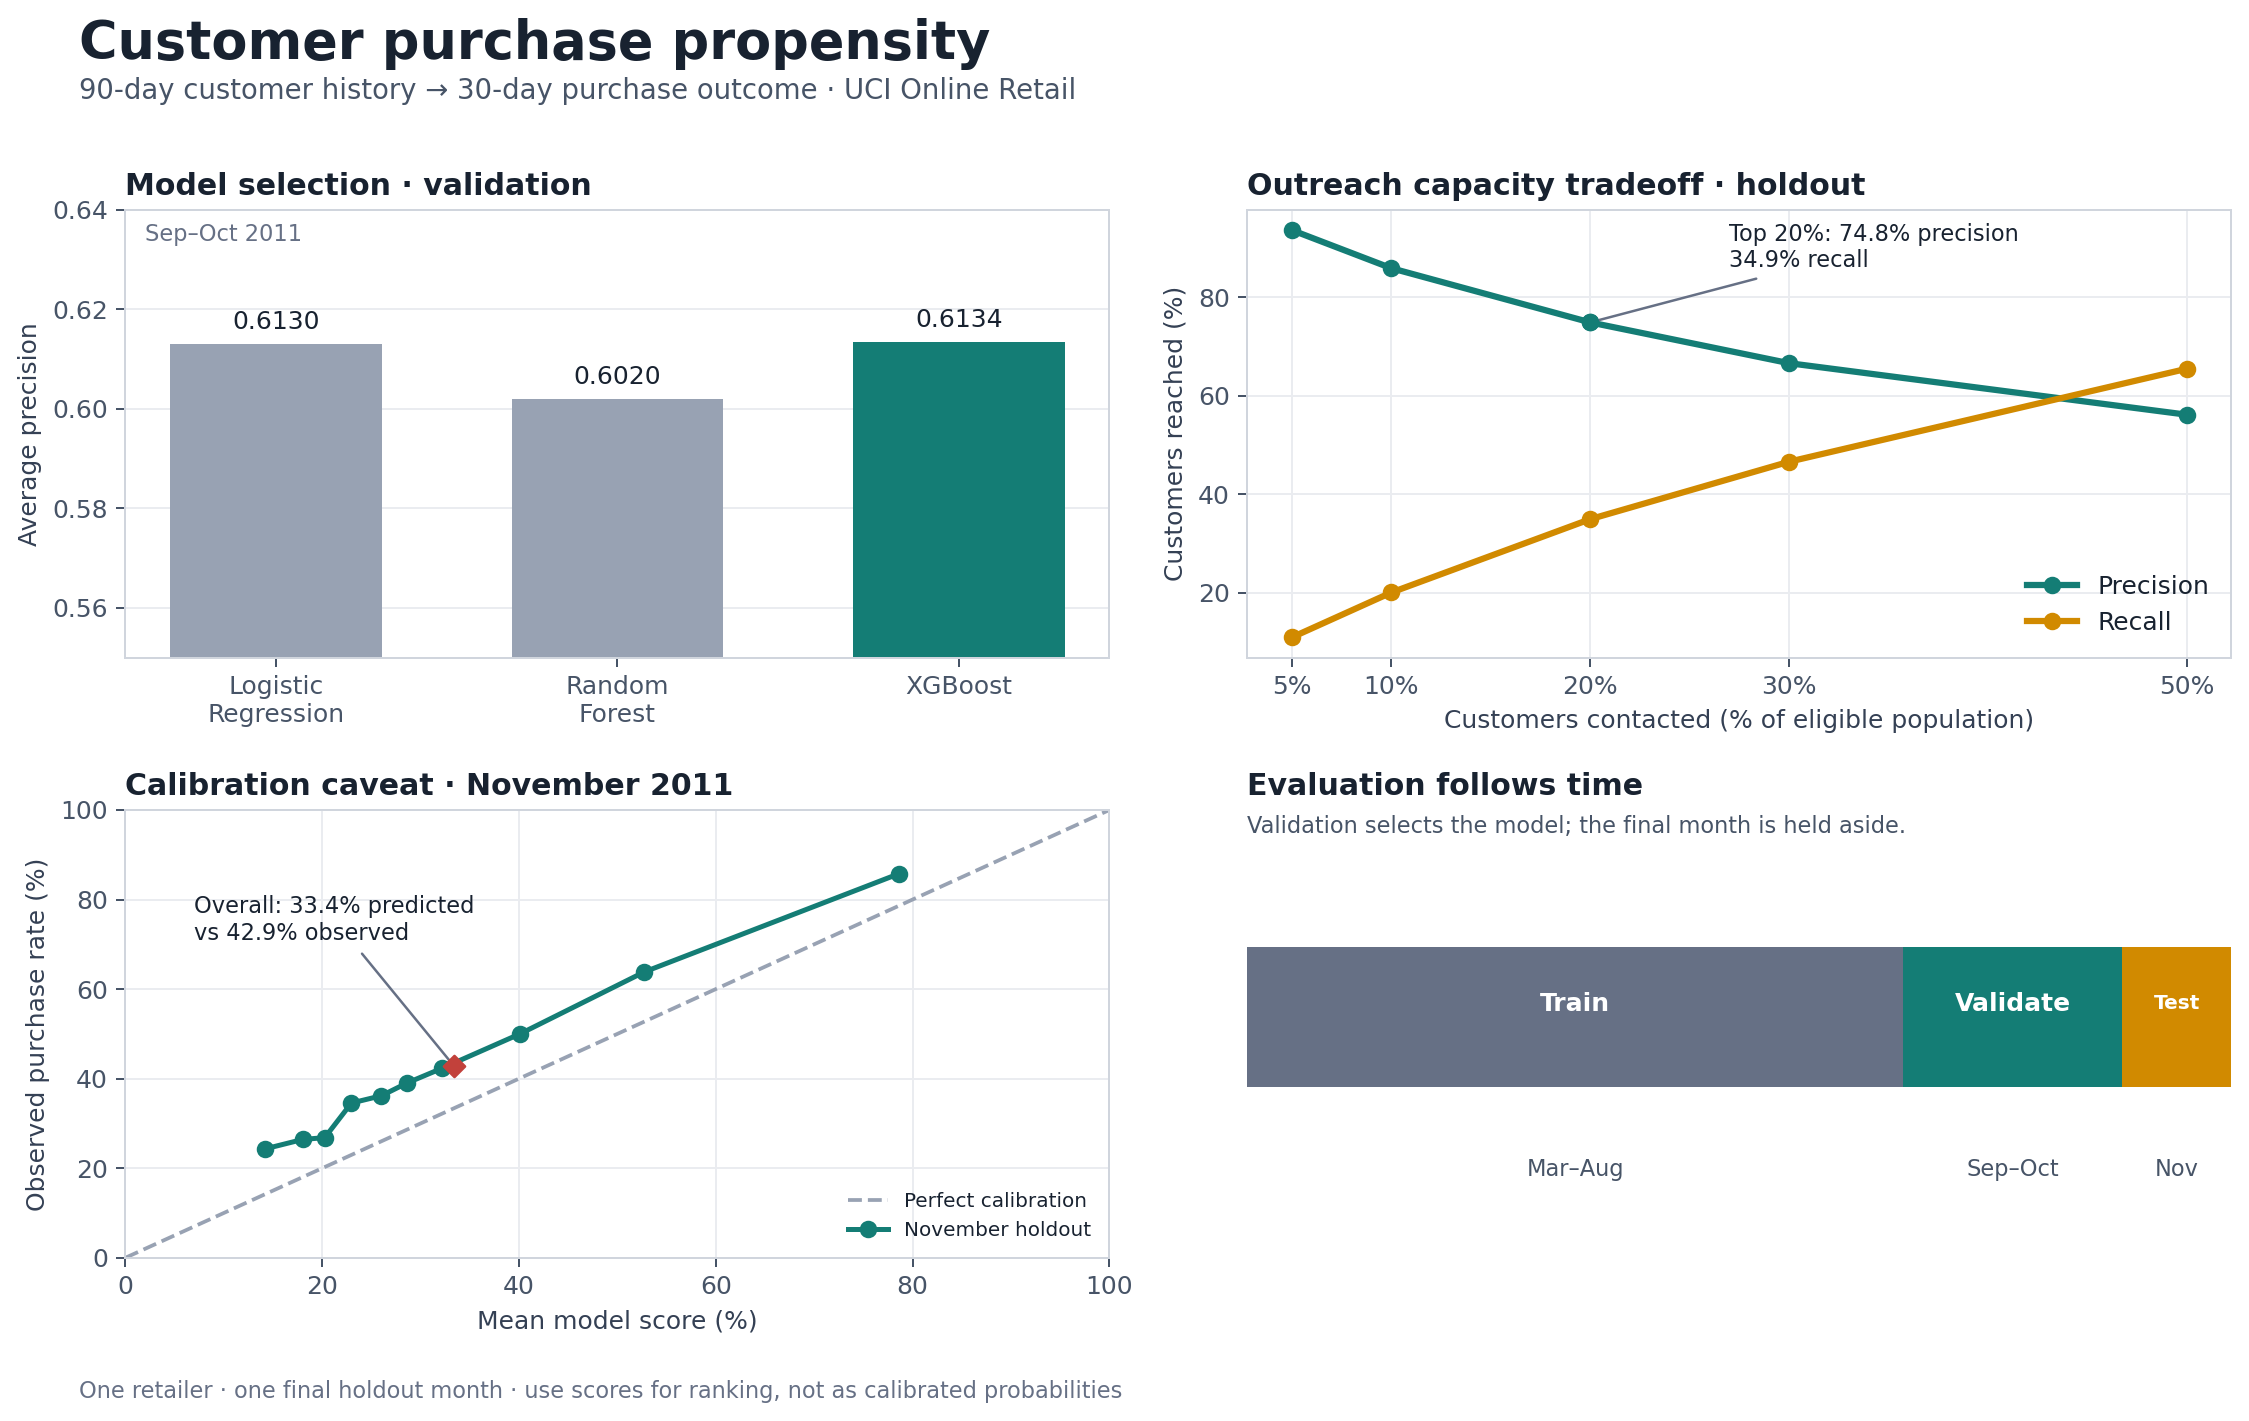
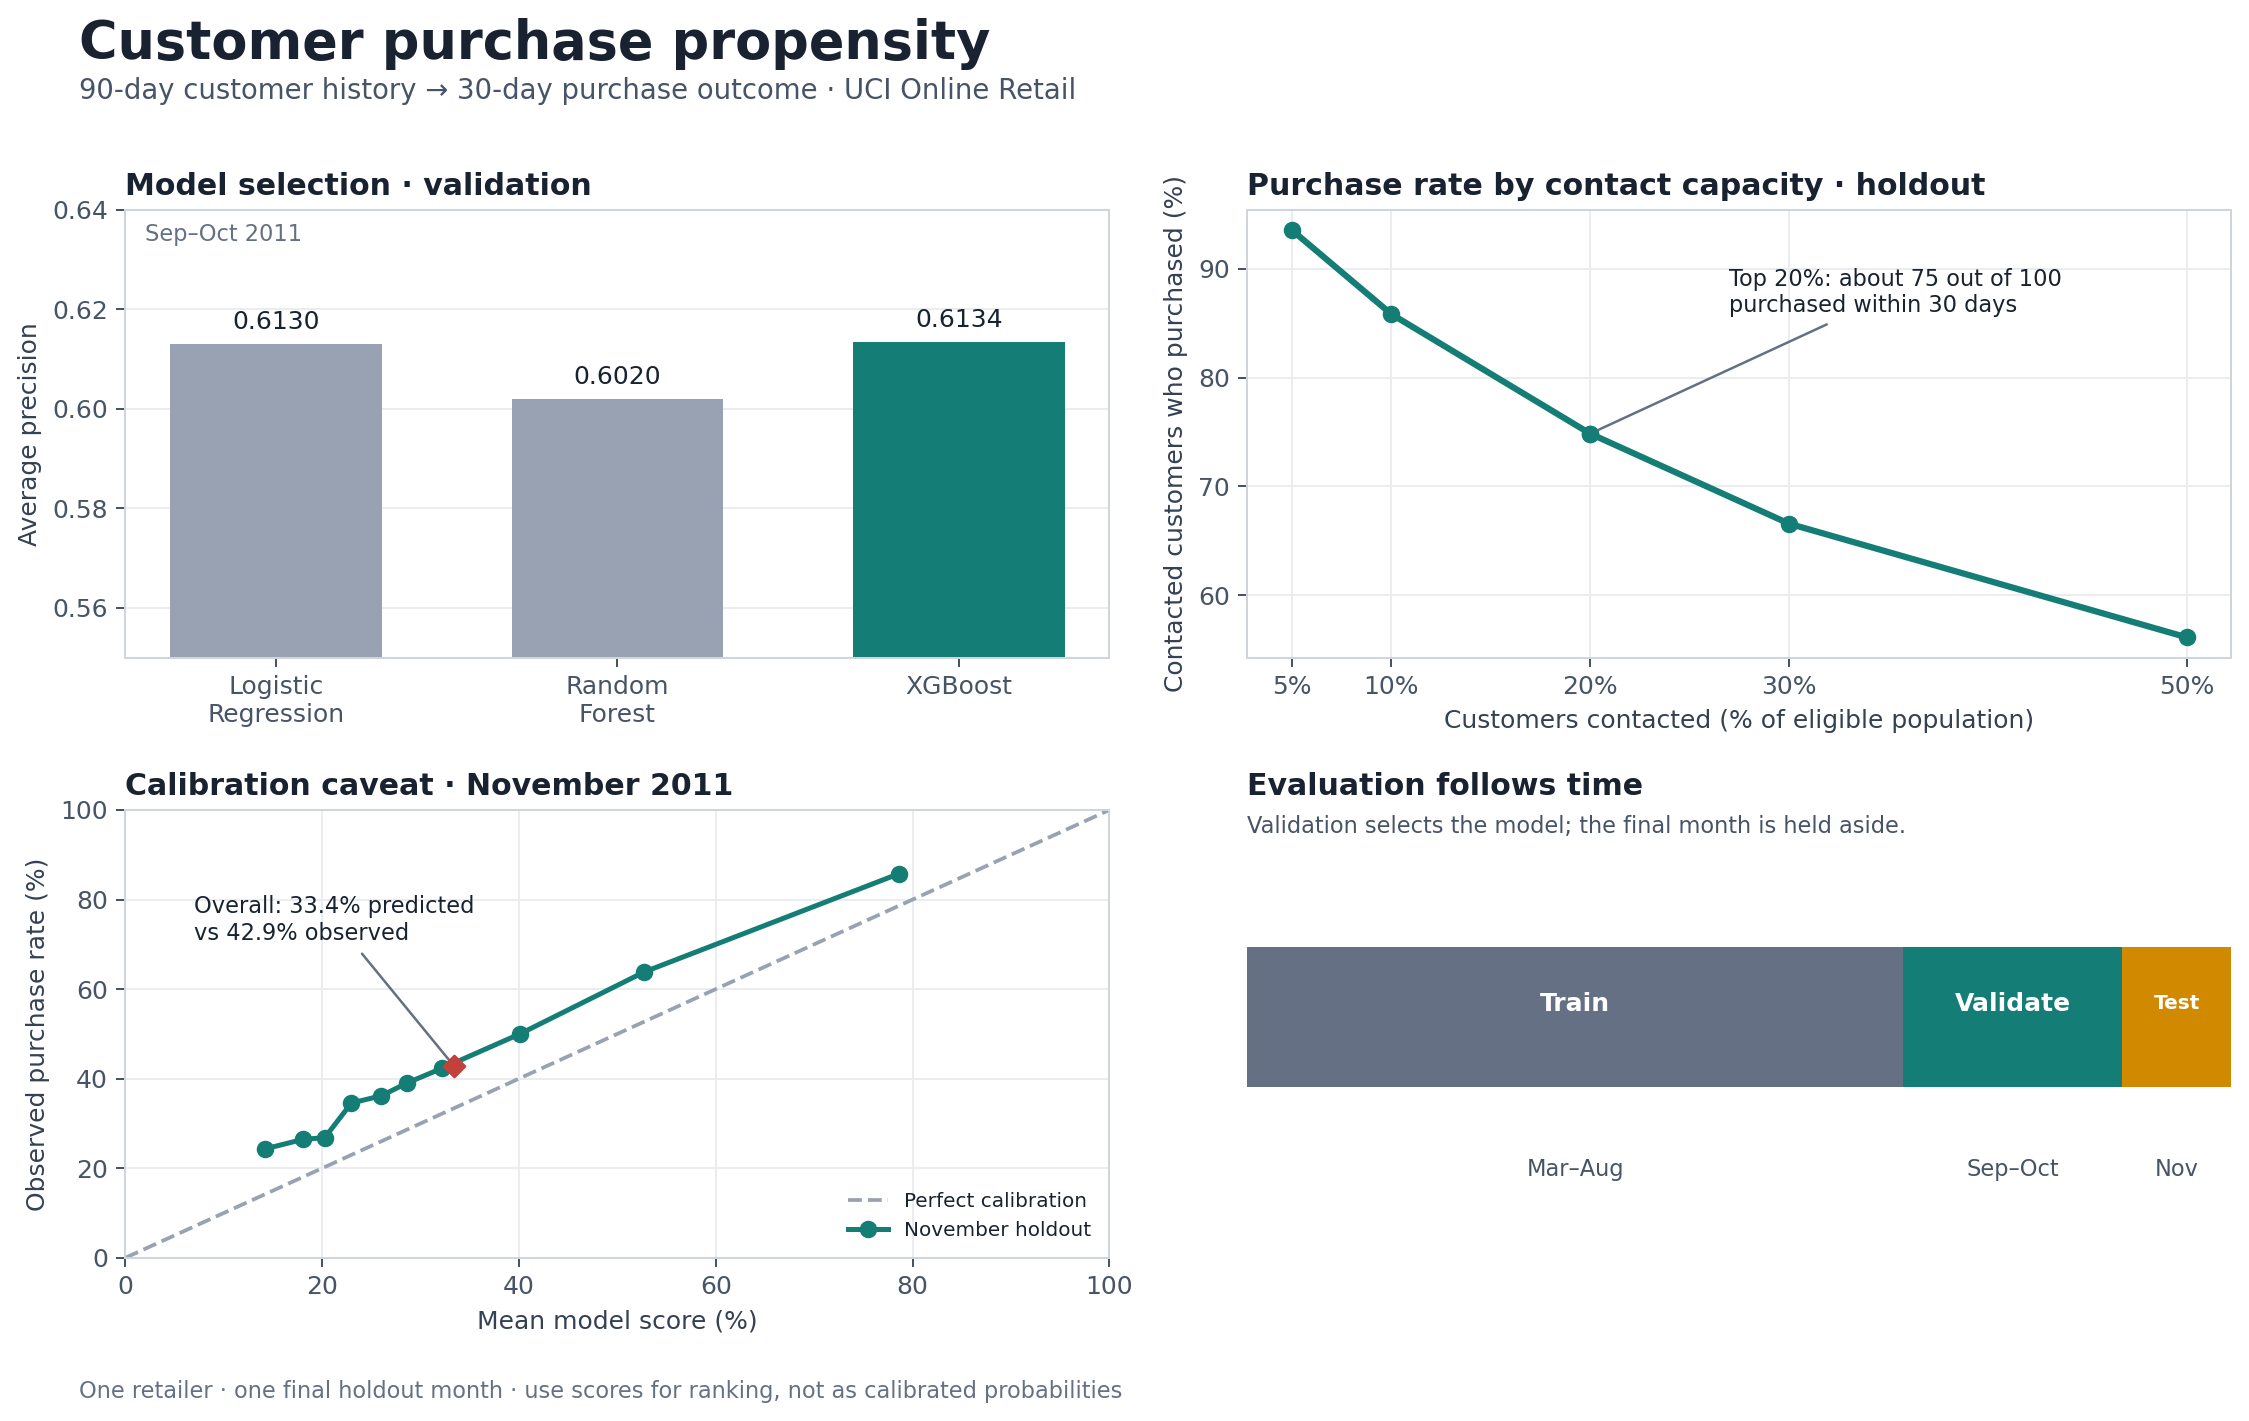
Initial customer intelligence ML project

diff --git a/scripts/build_showcase_figure.py b/scripts/build_showcase_figure.py
@@ -67,17 +67,15 @@ def main() -> None:
     # Contact capacity tradeoff on the holdout.
     ax = axes[0, 1]
     capacity = campaign["capacity_share"] * 100
-    ax.plot(capacity, campaign["precision"] * 100, marker="o", color="#147D75", linewidth=2.5, label="Precision")
-    ax.plot(capacity, campaign["recall"] * 100, marker="o", color="#D18A00", linewidth=2.5, label="Recall")
+    ax.plot(capacity, campaign["precision"] * 100, marker="o", color="#147D75", linewidth=2.5)
     ax.set_xlabel("Customers contacted (% of eligible population)")
-    ax.set_ylabel("Customers reached (%)")
-    ax.set_title("Outreach capacity tradeoff · holdout", loc="left")
+    ax.set_ylabel("Contacted customers who purchased (%)")
+    ax.set_title("Purchase rate by contact capacity · holdout", loc="left")
     ax.set_xticks(capacity, [f"{int(v)}%" for v in capacity])
     ax.grid(color="#EAECF0", linewidth=0.8)
     ax.set_axisbelow(True)
-    ax.legend(frameon=False, loc="lower right")
     ax.scatter([20], [float(test["precision_at_top_20pct"]) * 100], color="#147D75", zorder=5)
-    ax.annotate("Top 20%: 74.8% precision\n34.9% recall", (20, 74.85), xytext=(27, 86), textcoords="data", fontsize=9, arrowprops={"arrowstyle": "-", "color": "#667085"})
+    ax.annotate("Top 20%: about 75 out of 100\npurchased within 30 days", (20, 74.85), xytext=(27, 86), textcoords="data", fontsize=9, arrowprops={"arrowstyle": "-", "color": "#667085"})
 
     # Calibration comparison.
     ax = axes[1, 0]
